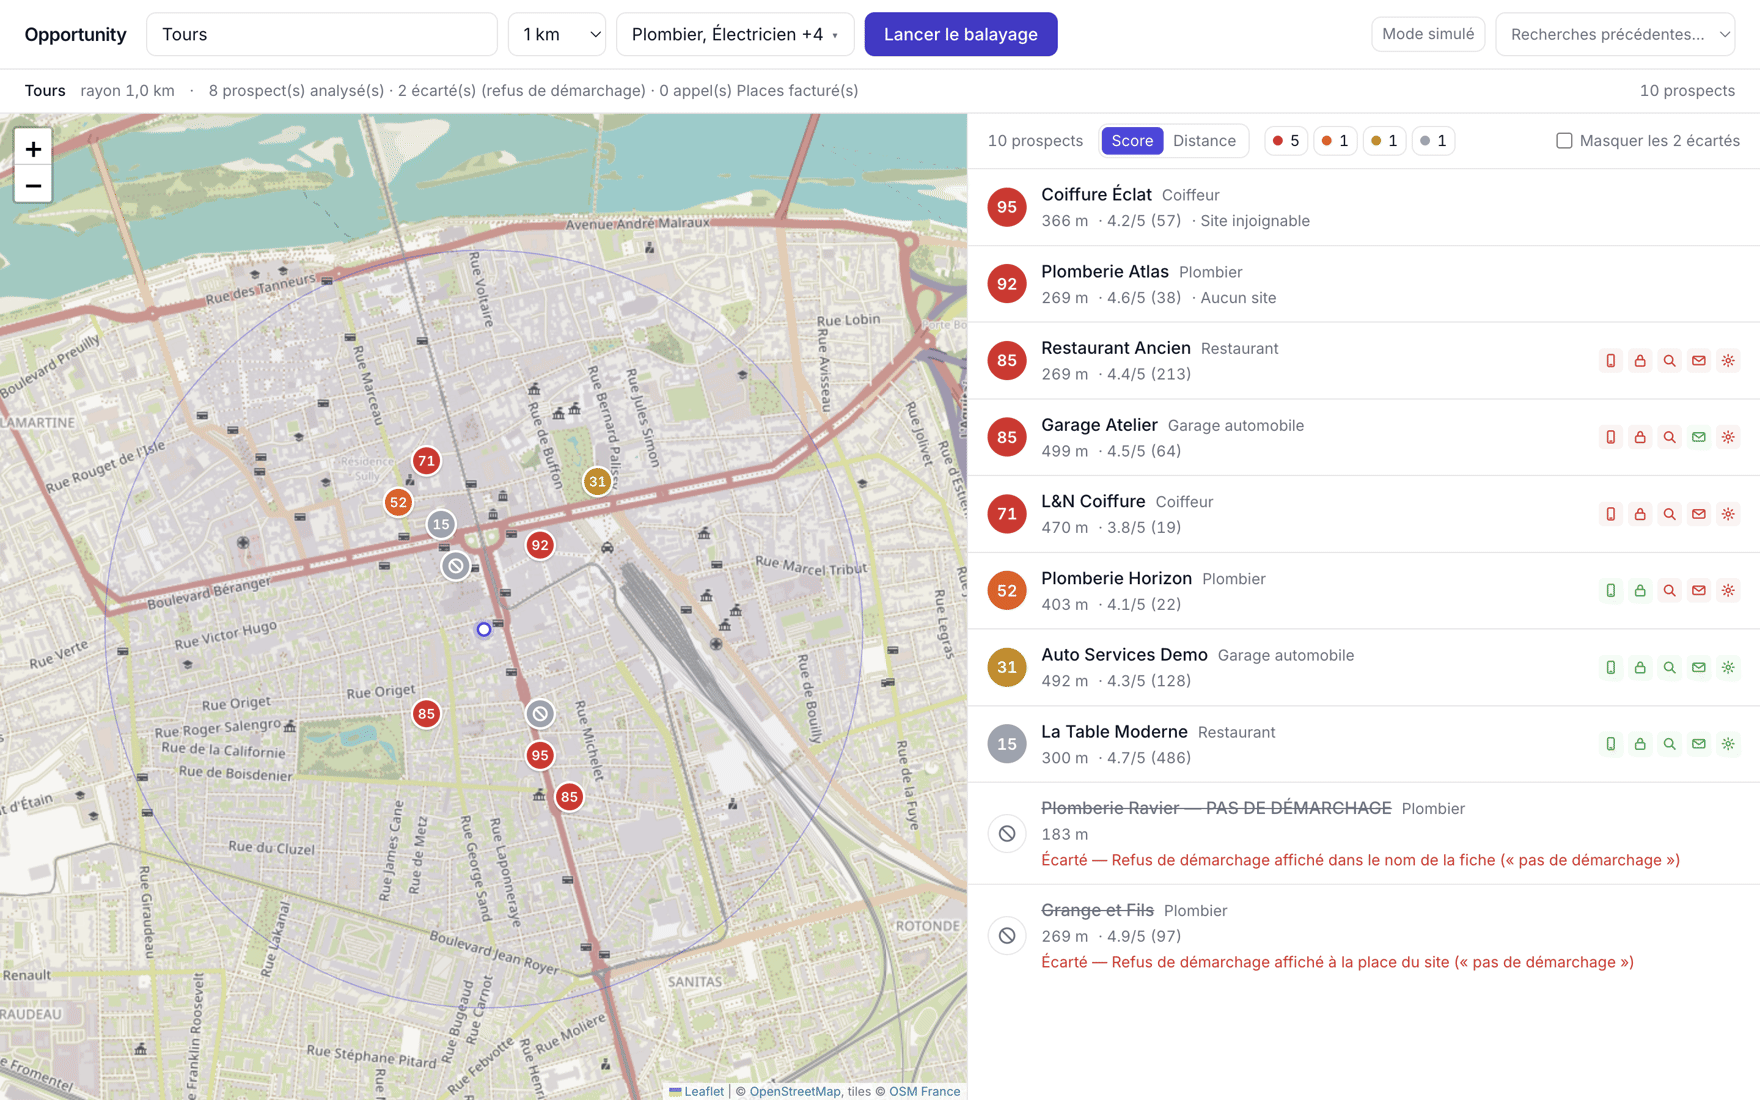
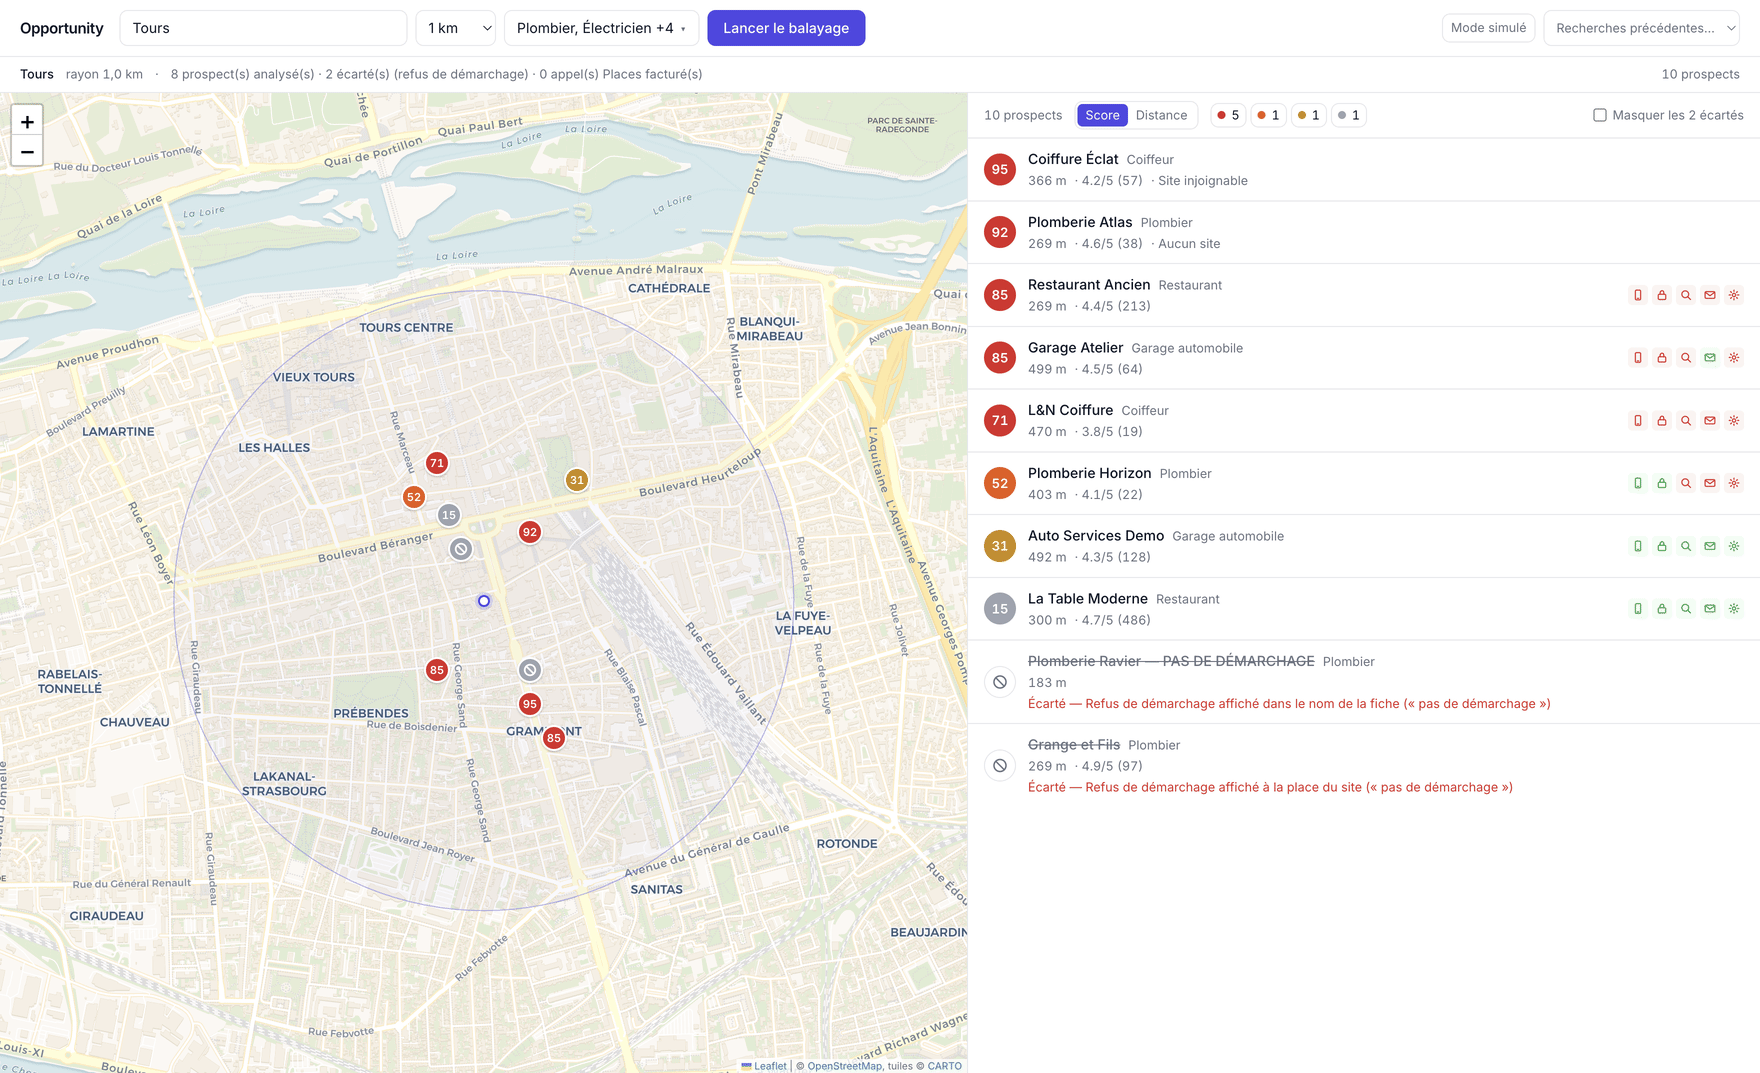
docs: refaire les visuels sur le nouveau fond de carte
Les quatre visuels montraient encore le fond OSM France HOT remplacé par
Voyager : la vitrine annonçait une version du produit qui n'existe plus.

Regénérés sur la démo de Tours en mode mock, depuis un build de
production et une base jetable — donc dix entreprises fictives, aucune
donnée réelle de prospection, et pas d'indicateur de développement Next
dans le cadre.

Deux textes alternatifs corrigés parce qu'ils décrivaient ce que les
images ne montrent pas :
- le GIF ne montre plus l'export du brief, qui déclenche un
  téléchargement et n'a donc aucun état visible à filmer ;
- la capture de diagnostic est la fiche en pleine page, pas le panneau
  latéral.

Le GIF passe de 928 à 420 Ko et le poids total des visuels baisse.

diff --git a/README.md b/README.md
@@ -7,7 +7,7 @@
 [![Next.js 16](https://img.shields.io/badge/Next.js-16-black)](https://nextjs.org)
 [![Node 22+](https://img.shields.io/badge/Node-22%2B-5FA04E)](https://nodejs.org)
 
-![Opportunity : balayer une ville, classer les prospects, ouvrir un diagnostic, exporter un brief](public/screenshots/demo.gif)
+![Opportunity : balayer une ville, classer les prospects par score, ouvrir le diagnostic d'un prospect](public/screenshots/demo.gif)
 
 ## Pourquoi
 
@@ -143,7 +143,7 @@ Chaque défaut porte son propre argument commercial, parce que le chiffre seul n
 survit pas au contact d'un dirigeant.
 
 <p align="center">
-  <img src="public/screenshots/02-diagnostic.png" alt="Panneau prospect : identité, puis le diagnostic chiffré avec un argument par défaut" width="620">
+  <img src="public/screenshots/02-diagnostic.png" alt="Fiche prospect : identité, puis le diagnostic chiffré avec un argument commercial par défaut" width="620">
 </p>
 
 ## Comment le score est calculé
